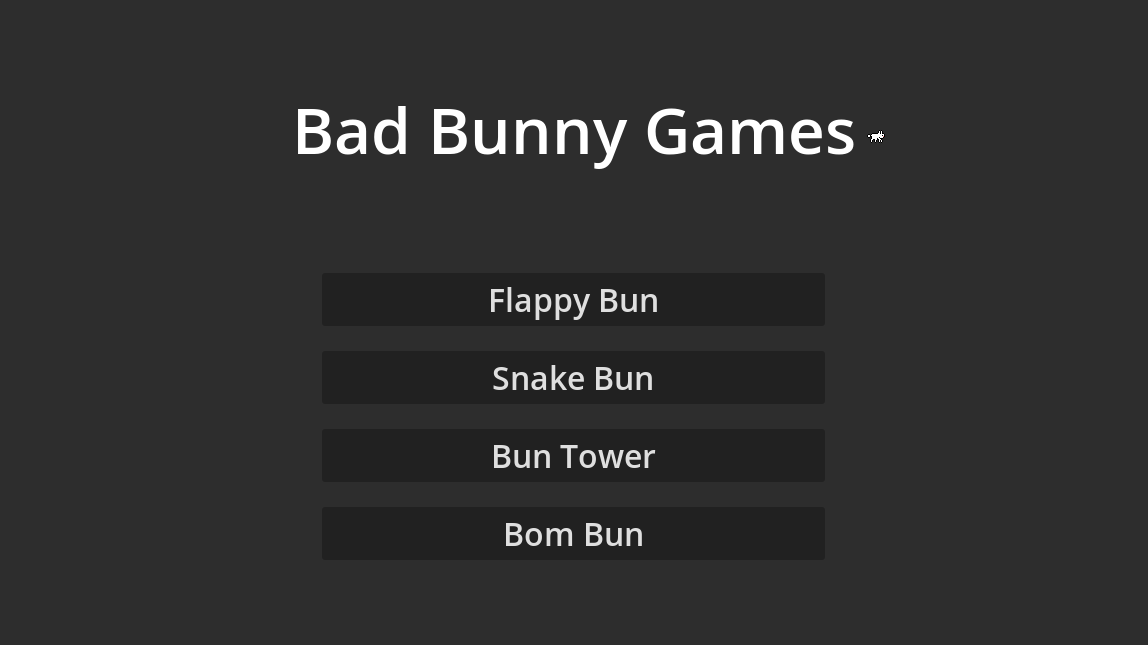
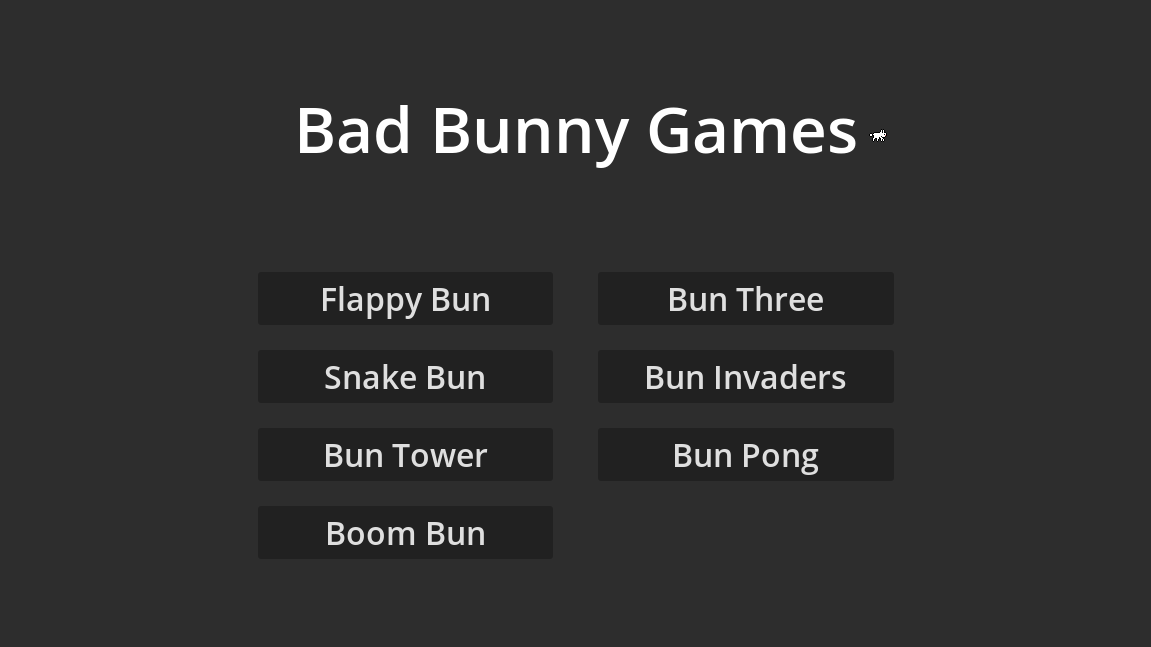
Add BunPong

diff --git a/BunPong/Scripts/Ball.cs b/BunPong/Scripts/Ball.cs
@@ -1,0 +1,36 @@
+using Godot;
+using System;
+
+namespace BadBunnyGames.BunPong
+{
+	public partial class Ball : CharacterBody2D
+	{
+		public Single Speed = 150f;
+		public Vector2 Direction;
+		private RandomNumberGenerator rng;
+		public override void _Ready()
+		{
+			Direction = new Vector2(-1, -1);
+			rng = new RandomNumberGenerator();
+			rng.Randomize();
+		}
+		public override void _PhysicsProcess(Double delta)
+		{
+			Velocity = Direction * Speed;
+			MoveAndSlide();
+
+			for(int i = 0; i < GetSlideCollisionCount(); i++)
+			{
+				var collision = GetSlideCollision(i);
+				Node2D collider = collision.GetCollider() as Node2D;
+				if (collider.IsInGroup("platform"))
+					Direction = new Vector2((collider.GlobalPosition.DirectionTo(GlobalPosition).Normalized() - Velocity.Normalized()).Normalized().X, -Direction.Y);
+				if (collider.IsInGroup("border"))
+					Direction = new Vector2(Direction.X, -(collider.GlobalPosition.DirectionTo(GlobalPosition).Normalized() - Velocity.Normalized()).Normalized().Y);
+
+				Tween tween = CreateTween();
+				tween.TweenProperty(this, "rotation", Rotation + rng.RandfRange(0, 2 * (Single)Math.PI), 5f);
+			}
+		}
+	}
+}

diff --git a/BunPong/Scripts/Platform.cs b/BunPong/Scripts/Platform.cs
@@ -1,0 +1,25 @@
+using Godot;
+using System;
+
+namespace BadBunnyGames.BunPong
+{
+	public partial class Platform : Node2D
+	{
+		[Export] public String KeyCodeUp;
+		[Export] public String KeyCodeDown;
+		public Single Speed = 3f;
+		public override void _PhysicsProcess(Double delta)
+		{
+			if(Input.IsActionPressed(KeyCodeUp))
+				Position += new Vector2(0, -1) * Speed;
+			if(Input.IsActionPressed(KeyCodeDown))
+				Position += new Vector2(0, 1) * Speed;
+
+			if(Position.Y > 120)
+				Position = new Vector2(Position.X, 120);
+			if(Position.Y < -120)
+				Position = new Vector2(Position.X, -120);
+		}
+	}   
+}
+

diff --git a/Scripts/SceneChanger.cs b/Scripts/SceneChanger.cs
@@ -26,6 +26,9 @@ namespace BadBunnyGames
 				case "BunInvaders":
 					LoadBunInvaders();
 					break;
+				case "BunPong":
+					LoadBunPong();
+					break;
 			}
 		}
 
@@ -52,6 +55,10 @@ namespace BadBunnyGames
 		private void LoadBunInvaders()
 		{
 			GetTree().ChangeSceneToFile($"{GlobalPaths.BunInvaders}/Scenes/main_scene.tscn");
+		}
+		private void LoadBunPong()
+		{
+			GetTree().ChangeSceneToFile($"{GlobalPaths.BunPong}/Scenes/main_scene.tscn");
 		}
 	}
 }

diff --git a/Scripts/GlobalPaths.cs b/Scripts/GlobalPaths.cs
@@ -10,6 +10,7 @@ namespace BadBunnyGames
 		public static readonly String BoomBun = "res://BoomBun";
 		public static readonly String BunThree = "res://BunThree";
 		public static readonly String BunInvaders = "res://BunInvaders";
+		public static readonly String BunPong = "res://BunPong";
 		public static readonly String MainMenu = "res:/";
 	}
 }

diff --git a/BunPong/Scripts/ScoreArea.cs b/BunPong/Scripts/ScoreArea.cs
@@ -1,0 +1,13 @@
+using Godot;
+
+namespace BadBunnyGames.BunPong
+{
+	public partial class ScoreArea : Node2D
+	{
+		private void _on_body_entered(Node2D area)
+		{
+			if(area.IsInGroup("ball"))
+				GetNode<Addons>("%Addons")._on_game_over();
+		}
+	}
+}

diff --git a/README.md b/README.md
@@ -27,3 +27,7 @@ Bun Three
 Bun Invaders
 
 ![Bun Invaders](bun_invaders.png)
+
+Bun Pong
+
+![Bun Pong](bun_pong.png)
